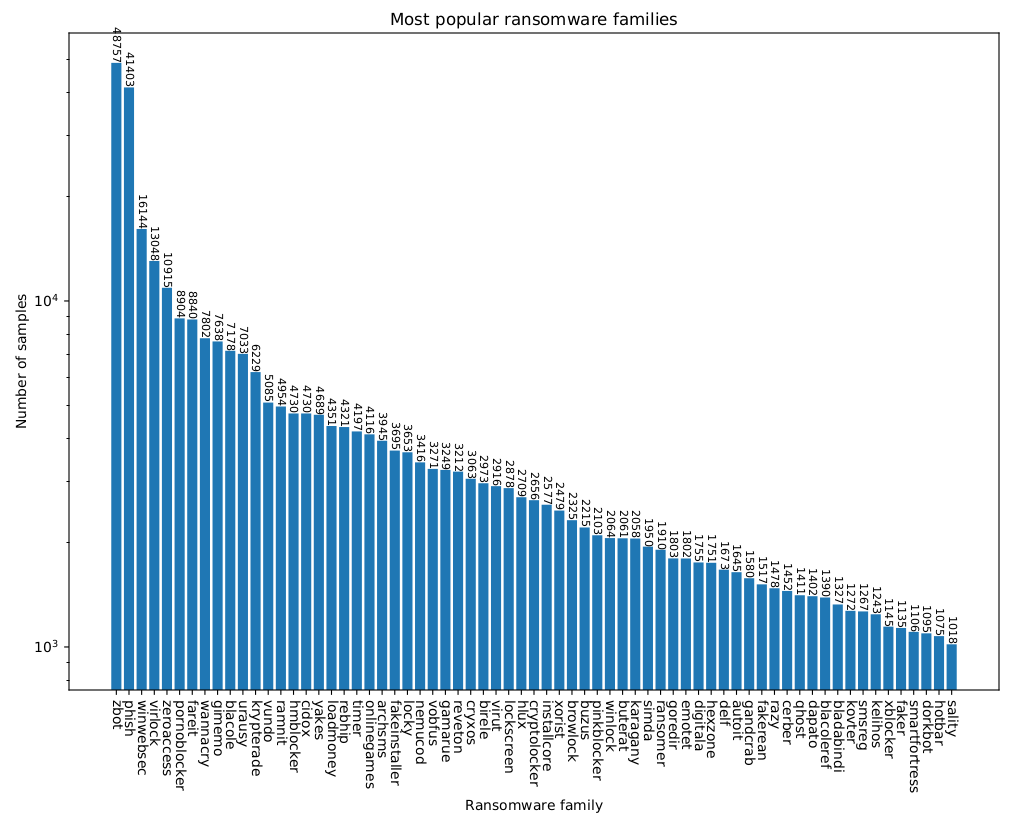
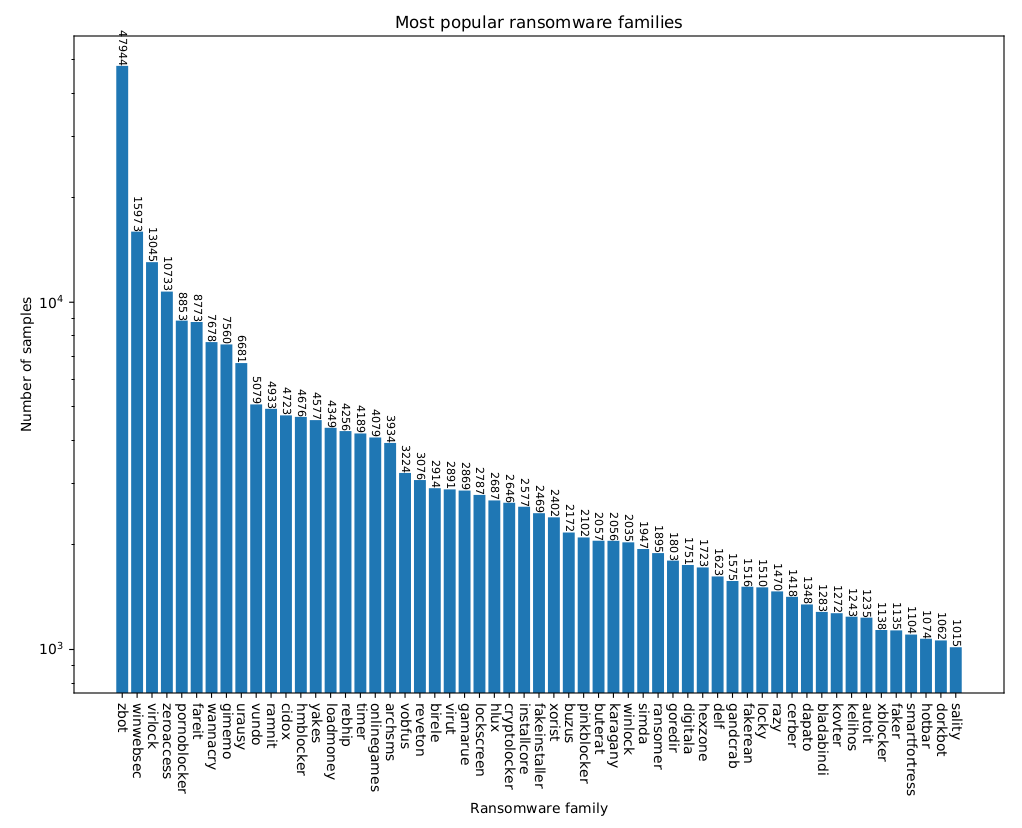
pre-filter for EXE files, remove SINGLETON detections

Changed region(s): [[0.0, 0.0, 1.0, 1.0]]

diff --git a/filter1.py b/filter1.py
@@ -1,0 +1,78 @@
+import os
+import io
+import gzip
+import json
+
+# directory containing (compressed) downloaded files from
+# https://drive.google.com/drive/folders/1oKr5hP8Dlz1QABUOX-HKi2n8tyRkbaDN
+# that's 19GB compressed / 200GB uncompressed; this script runs about 30min.
+RAW = 'Raw/'
+# directory containing the VirusShare_*.zip.file.json files from
+# https://a4lg.com/downloads/vxshare/
+# they're in the vxshare-filetypes-???-v5.tar.xz files.
+# these are gzip compressed to save storage.
+# processing time 3-4min, dominated by JSON parsing.
+TYPES = 'vxshare-filetypes/'
+
+def clone(data, *keys):
+	return { key: data[key] for key in keys }
+
+def filter(file, infile, outfile):
+	# pre-filter for PE executables. mostly meant to remove browser-based
+	# HTML ransom notices, which don't affect files (in a working browser).
+	peexe = set()
+	with gzip.open(TYPES + file + '.zip.file.json.gz', 'rb') as types:
+		for row in json.load(types):
+			if 'sig' not in row:
+				# there's a few (1260) entries missing the "file" results.
+				# they're all ELF's, so it doesn't matter.
+				continue
+			if row['sig'].startswith('PE'):
+				f = row['f']
+				if not f.startswith("VirusShare_"):
+					raise Exception('invalid sample name ' + f)
+				peexe.add(f[11:].rstrip())
+
+	lineno = 0
+	for line in infile:
+		if '\x00' in line:
+			break
+		# filter before parsing to avoid unnexessary parsing
+		if 'ransom' in line.lower():
+			data = json.loads(line)
+			if data['md5'] in peexe:
+				obj = clone(data, 'md5', 'sha1', 'sha256')
+				obj['file'] = file
+				obj['line'] = lineno
+				# deliberately using the verbose format that avclass can read
+				obj['scans'] = { engine: clone(res, 'detected', 'result')
+						for engine, res in data['scans'].items() if res['detected'] }
+				obj['undetected'] = [engine
+						for engine, res in data['scans'].items() if not res['detected']]
+				json.dump(obj, outfile)
+				outfile.write('\n')
+		lineno += 1
+	return lineno
+
+lens = dict()
+with io.open('ransomware.jsons', 'wb') as ransom:
+	for file in sorted(os.listdir(RAW)):
+		if not file.endswith('.ldjson.tar.gz'):
+			print file, '???'
+			continue
+		with gzip.open(RAW + file, 'rb') as tgz:
+			# the Raw dataset files are single-element tar.gz files, which is a bit
+			# silly. however, since all tars are single-element, so we can just strip
+			# a single 512-byte tar header block and treat the rest of the file as
+			# ordinary text.
+			# since the files always end with a newline, tar's zero-padding of the
+			# last block appears as a line containing only NUL bytes, which won't
+			# match the "ransom" filter anyway.
+			tar_header = tgz.read(512)
+			if len(tar_header) != 512:
+				raise Exception('cannot skip the TAR header?')
+			basename = file[:-14]
+			lens[basename] = filter(basename, tgz, ransom)
+			print basename, lens[basename]
+with io.open('filelengths.json', 'wb') as lengths:
+	json.dump(lens, lengths)

diff --git a/filter2.py b/filter2.py
@@ -1,0 +1,36 @@
+import os
+import io
+import json
+import sys
+
+# ignore all SINGLETON samples. these are the ones for which not a single AV
+# engine has a non-generic name. rationale is that if it isn't important
+# enough to get a name, it never had any significant spread.
+recognized = set()
+with io.open('ransomware.labels', 'rb') as infile:
+	for line in infile:
+		hash = line[0:32]
+		family = line[33:].rstrip()
+		if not family.startswith('SINGLETON:'):
+			recognized.add(hash)
+sys.stderr.write(str(len(recognized)) + ' non-singleton samples\n')
+
+# ransomware.md5 just lists the hashes, and sample source files. because it is
+# much smaller, processing it is orders of magnitude faster.
+sourcefile = dict()
+with io.open('ransomware.jsons', 'rb') as ransom, io.open('ransomware.md5', 'wb') as md5:
+	index = 0
+	selected = 0
+	for line in ransom:
+		data = json.loads(line)
+		hash = data['md5']
+		file = data['file']
+		if hash in recognized:
+			md5.write(hash + '  ' + file + '\n')
+			selected += 1
+
+		index += 1
+		if index % 1000 == 0:
+			sys.stderr.write('\r' + str(index / 1000) + 'k  ')
+			sys.stderr.flush()
+sys.stderr.write('\r' + str(selected) + ' / ' + str(index) + '\n')

diff --git a/README.md b/README.md
@@ -3,16 +3,20 @@
 Our ransomware dataset is based on [VirusShare](https://virusshare.com)'s collection of 33.9M samples.
 We used John Seymour's [dataset](https://twitter.com/_delta_zero/status/1113477389961416704) containing the VirusTotal [labels](https://www.zerofox.com/blog/labeling-virusshare-corpus/) of all 33.2M samples from June 2012 to February 2019.
 
-We downloaded the [Raw dataset](https://drive.google.com/drive/folders/1oKr5hP8Dlz1QABUOX-HKi2n8tyRkbaDN) and filtered it for all `ransom` detections (using `filter.py`).
-The resulting 456856 samples were then classified using the [AVClass malware labeling tool](https://github.com/malicialab/avclass) to group them by family.
-This yielded 59339 SINGLETONs, 1717 "families" containing only one sample, and 1832 ransomware families with 2 or more members:
+We downloaded the [Raw dataset](https://drive.google.com/drive/folders/1oKr5hP8Dlz1QABUOX-HKi2n8tyRkbaDN) and filtered it for all `ransom` detections.
+These 456856 samples are then further filtered for Windows executables using the [VirusShare filetypes dataset](https://a4lg.com/downloads/vxshare/).
+Filtering by filetype is mostly meant to remove a significant number of browser-based HTML ransom demands, which are scary but harmless (in an up-to-date browser).
+
+The resulting 339594 samples were then classified using the [AVClass malware labeling tool](https://github.com/malicialab/avclass) to group them by family.
+This yielded 23616 `SINGLETON`s (samples with generic names only), 1562 "families" containing only one sample, and 1671 ransomware families with 2 or more members.
+Filtering out the `SINGLETON`s leaves a base set of 315978 samples.
 
 ![almost but not quite a power law](ransomware-family-distribution.png)
 
 To the surprise of absolutely no one, it's the usual long-tailed distribution.
-What is surprising is that the 2-sample families contain some that did make the news, eg. *GoldenEye*, *ZeroLocker* and *Bad Rabbit*.
+What is surprising is that the 2-sample families do contain some ransomware that did make the news, eg. *GoldenEye*, *ZeroLocker* and *Bad Rabbit*.
 The 1-sample families contain many generic names like `940677ecdf` or `aawj`, but also known ransomware like *Alcatraz Locker*.
 
 The head end:
 
-![Zeus, JS/Phish, Winwebsec, Virlock, ZeroAccess, …](popular-ransomware.png)
+![Zeus, Winwebsec, Virlock, ZeroAccess, PornoBlocker, …](popular-ransomware.png)
